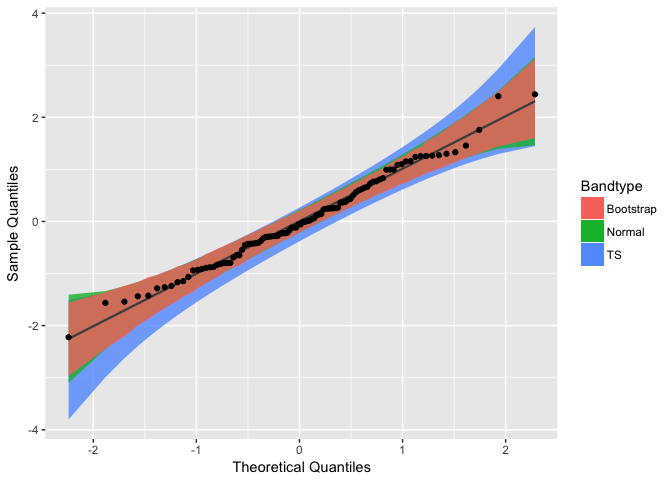
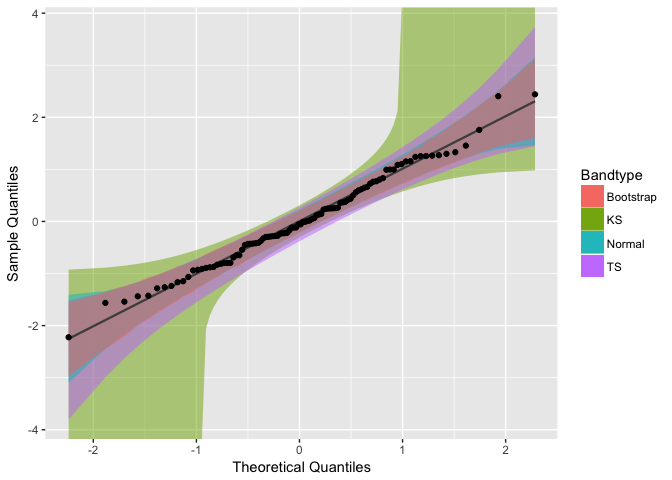
quick updates for readme on github

Changed region(s): [[0.0938, 0.0, 0.8125, 0.9375], [0.8438, 0.3438, 1.0, 0.5938]]

diff --git a/README.md b/README.md
@@ -35,7 +35,7 @@ install.packages("qqplotr")
 Details
 -------
 
-The functions of this package, implemeneted as Stats from `ggplot2`, are divided into two groups: (1) Q-Q and (2) P-P plot.
+The functions of this package, implemeneted as Stats from `ggplot2`, are divided into two groups: (1) Q-Q and (2) P-P plots.
 
 Both groups are composed of three functions: *point*, *line*, and *band*. Those Stats complement each other when drawn together, but they may also be plotted independently.
 
@@ -45,9 +45,10 @@ Below we will give an overview of all those Stats and, further in the document, 
 
 -   `stat_qq_point` This is a modified version of `ggplot2::stat_qq` with some parameters adjustments and a new option to detrend the points.
 -   `stat_qq_line` Draws a reference line based on the data quantiles, as in `stats::qqline`.
--   `stat_qq_band` Draws confidence bands based on three methods: `"normal"`, `"bs"`, and `"ts"`:
-    -   `"normal"` constructs simultaneous confidence bands based on Normal confidence intervals;
-    -   `"bs"` creates pointwise confidence bands based on a parametric boostrap;
+-   `stat_qq_band` Draws confidence bands based on three methods: `"pointwise"`, `"boot"`, `"ks"`, and `"ts"`:
+    -   `"pointwise"` constructs simultaneous confidence bands based on the normal distribution;
+    -   `"boot"` creates pointwise confidence bands based on a parametric boostrap;
+    -   `"ks"` constructs simultaneous confidence bands based on an inversion of the Kolmogorov-Smirnov test;
     -   `"ts"` constructs tail-sensitive confidence bands, as proposed by Aldor-Noiman et al. (2013).
 
 In order to facilitate the visualization of multiple Q-Q band methods at the same time, the `geom_qq_band` Geom was also implemented. Its usage will be illustrated further below.
@@ -56,7 +57,7 @@ In order to facilitate the visualization of multiple Q-Q band methods at the sam
 
 -   `stat_pp_point` Plots cumulative probabilities versus probability points. The cumulative probability function is constructed with the sample data, and then evaluated at each probability point.
 -   `stat_pp_line` Draws a reference identity line (*x* = *y*).
--   `stat_pp_band` Draws confidence bands. For now, only the bootstrap version (`"bs"`) is available.
+-   `stat_pp_band` Draws confidence bands. For now, only the bootstrap version (`"boot"`) is available.
 
 Usage
 -----
@@ -95,9 +96,10 @@ As previously described in the Details section, three confidence bands construct
 
 ``` r
 gg <- ggplot(data = smp, mapping = aes(sample = norm)) +
-    geom_qq_band(bandType = "ts", mapping = aes(fill = "TS")) +
-    geom_qq_band(bandType = "normal", mapping = aes(fill = "Normal")) +
-    geom_qq_band(bandType = "boot", mapping = aes(fill = "Bootstrap")) +
+    geom_qq_band(bandType = "ks", mapping = aes(fill = "KS"), alpha = 0.5) +
+    geom_qq_band(bandType = "ts", mapping = aes(fill = "TS"), alpha = 0.5) +
+    geom_qq_band(bandType = "pointwise", mapping = aes(fill = "Normal"), alpha = 0.5) +
+    geom_qq_band(bandType = "boot", mapping = aes(fill = "Bootstrap"), alpha = 0.5) +
     stat_qq_line() +
     stat_qq_point() +
     labs(x = "Theoretical Quantiles", y = "Sample Quantiles") +
